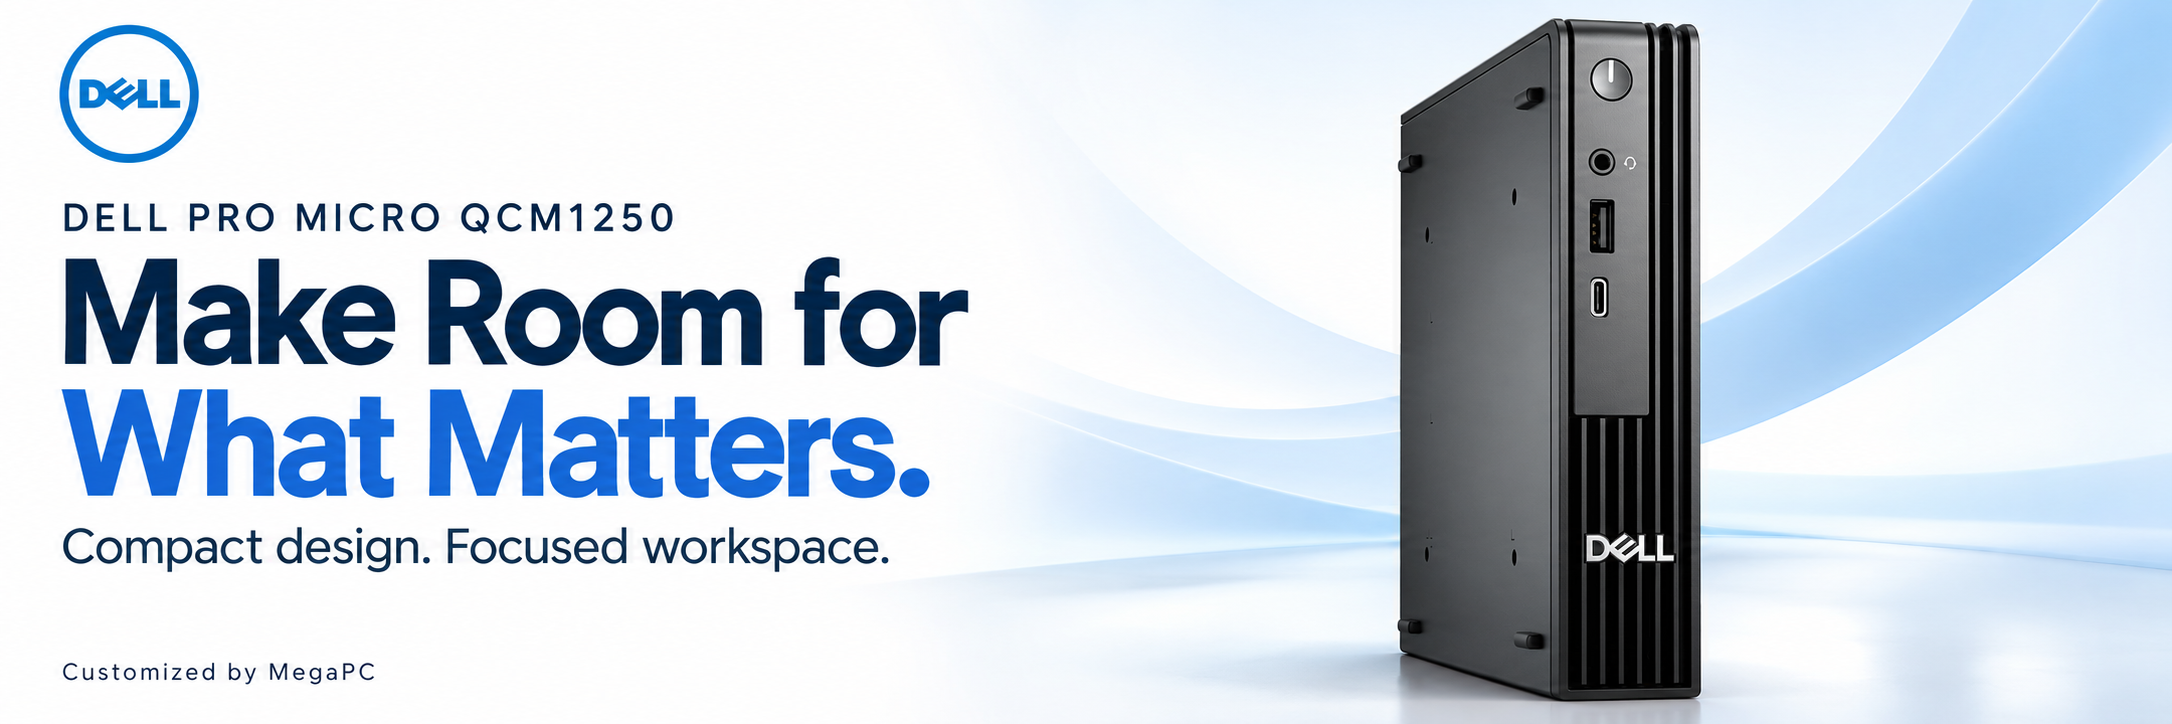
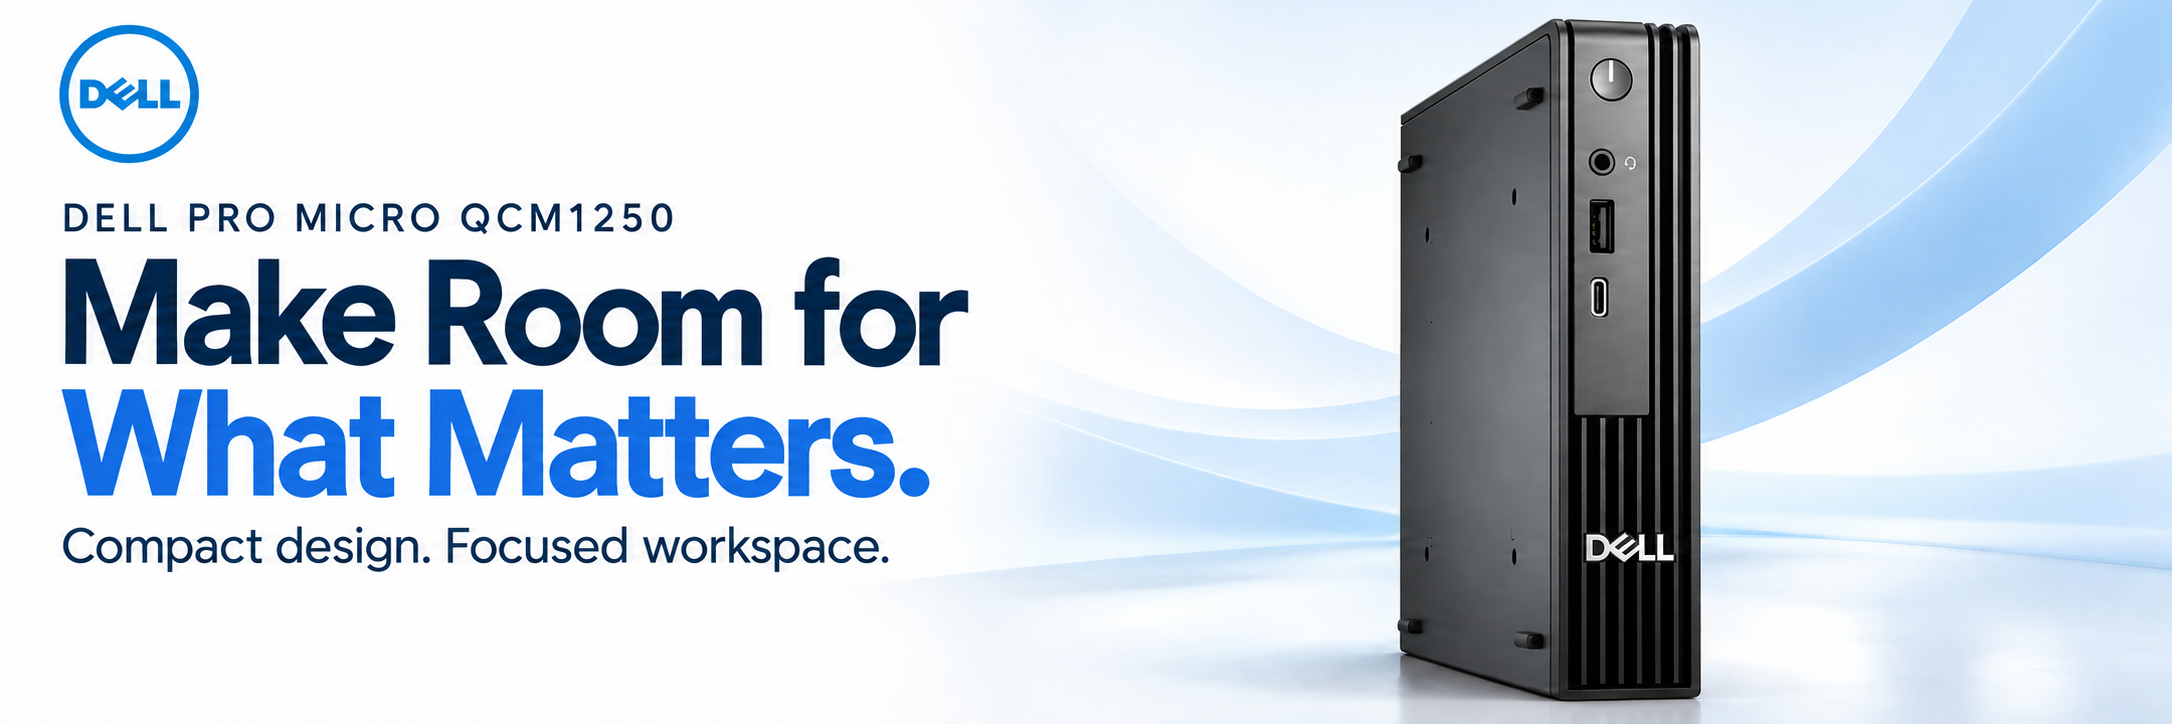
fix(VD-744): remove MegaPC footer from hero artwork

diff --git a/products/VD-744/US/review/image-generation-prompts.md b/products/VD-744/US/review/image-generation-prompts.md
@@ -6,8 +6,18 @@
 
 ## hero
 
+以下为 2026-10-16 的初始生成记录；当前交付图已按下面的修改记录移除底部 MegaPC 文字。
+
 ```text
 Create ONE finished premium Amazon A+ product banner, wide 3:1 landscape, ideally 1800x600 or 1536x512, no collage. Reference image 1 is the exact Dell Pro Micro QCM1250 black micro desktop; preserve its exact silhouette, proportions, front power button, headset jack, one USB-A above one USB-C, lower vertical grille, authentic Dell mark, side fasteners. Use its photographed angle without inventing another view. Reference image 2 is an authorized original Dell blue circle logo, place it small in upper-left white space with original shape. Product on right 45% of banner, large but fully contained, soft realistic contact shadow on cool white surface. Left 48% spacious clean editorial typography. Polished restrained business technology art direction: white, deep navy #10243A, blue #246DDB, subtle pale-blue architectural sweep, no noisy patterns. Exact text only, clear sans-serif: top small 'DELL PRO MICRO QCM1250'; main heading split across two lines 'Make Room for' / 'What Matters.'; supporting line 'Compact design. Focused workspace.'; bottom small 'Customized by MegaPC'. Do NOT print additional text on the computer. Do not add any numeric specifications, monitor, keyboard, mouse, cables, accessories, people, warranty, Windows or Intel logo. This is a real business micro desktop, not a gaming tower. Professional conversion-oriented hero, exquisite crisp finish and balanced whitespace.
+```
+
+### hero · 2026-10-27 局部修改记录
+
+工具：内置 imagegen，单图编辑；输入为现有 `shared/assets/01-hero-v1.png`。保持原交付路径，旧图可从 Git 历史恢复。
+
+```text
+Use case: precise-object-edit. Edit target: the supplied finished 2172 x 724 wide Dell Pro Micro QCM1250 hero banner. Make exactly one small edit: remove the entire lower-left footer text 'Customized by MegaPC' and restore the clean white / very pale blue background underneath it seamlessly. Leave that lower-left footer area blank. Preserve the original canvas dimensions and 3:1 composition. Keep all remaining elements unchanged: the upper-left Dell blue circle logo, 'DELL PRO MICRO QCM1250', the two-line heading 'Make Room for' / 'What Matters.', 'Compact design. Focused workspace.', the exact computer appearance, ports, grille, logos, position and scale, lighting, shadows, blue background sweep, colors, spacing and typography. Do not replace the removed phrase with any text. Do not redesign, reframe, crop, move or add anything. Only remove the specified footer phrase.
 ```
 
 ## features

diff --git a/products/VD-744/US/review/creative-review.md b/products/VD-744/US/review/creative-review.md
@@ -29,3 +29,9 @@
 - 视频外部生成、剪辑、配音与成片验收。
 
 旧项目首选 `listing-testing` Python 路径本机未找到；本轮文件解码、尺寸、哈希和引用检查使用 PowerShell/.NET，图像生成全部由内置 imagegen 完成。没有安装或切换 Python 环境，没有把文件检查当作视觉真实性证明。
+
+## 2026-10-27 · 第一张图局部修改
+
+用户要求去掉 delivery 第一张预览图中的「Customized by MegaPC」。使用内置 imagegen 编辑现有 `shared/assets/01-hero-v1.png`，移除左下角整行文字并补回浅色背景，沿用原路径；修改前版本保留在 Git 历史。
+
+实际查看编辑结果：左下角指定文字已移除，Dell Logo、型号、两行主标题、说明文字、主机与白蓝构图视觉上保留；没有新增文案。AI 编辑结果不声称与原图逐像素一致。PNG 可解码，实际尺寸仍为 2172×724；文件字节数和 SHA-256 已同步至 delivery/manifest.json，其余五张图片的哈希与原清单一致。未运行 Python，未新增事实研究或变更规格；原有后台适配、硬件细节终审与视频待办状态继续保留。

diff --git a/products/VD-744/US/delivery/README.md b/products/VD-744/US/delivery/README.md
@@ -12,6 +12,8 @@
 
 ### 01 · 产品主视觉
 
+2026-10-27：按用户要求移除图内左下角的「Customized by MegaPC」，保留现有交付路径与 2172×724 尺寸。其余五张图片未修改。
+
 ![产品主视觉](../shared/assets/01-hero-v1.png)
 
 ### 02 · 工作日核心功能
